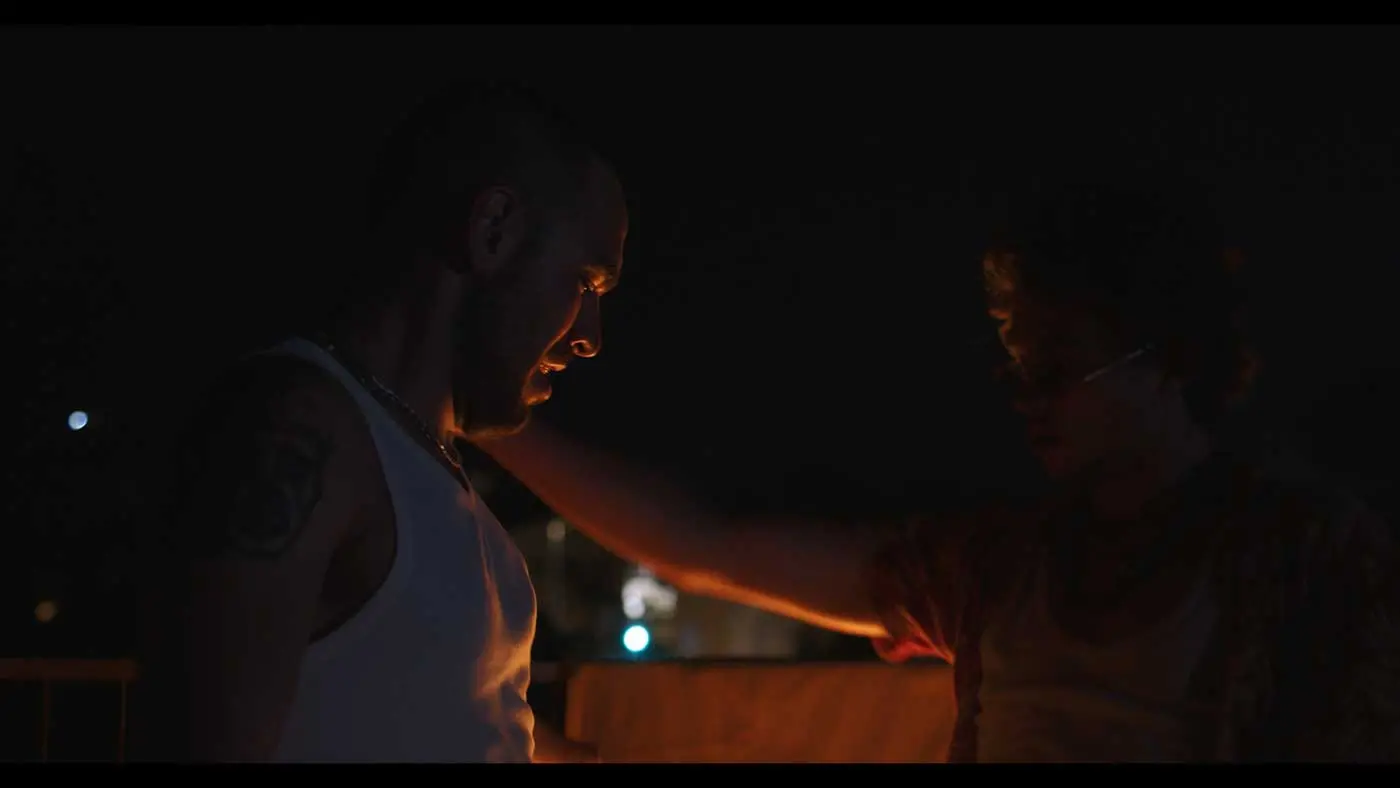
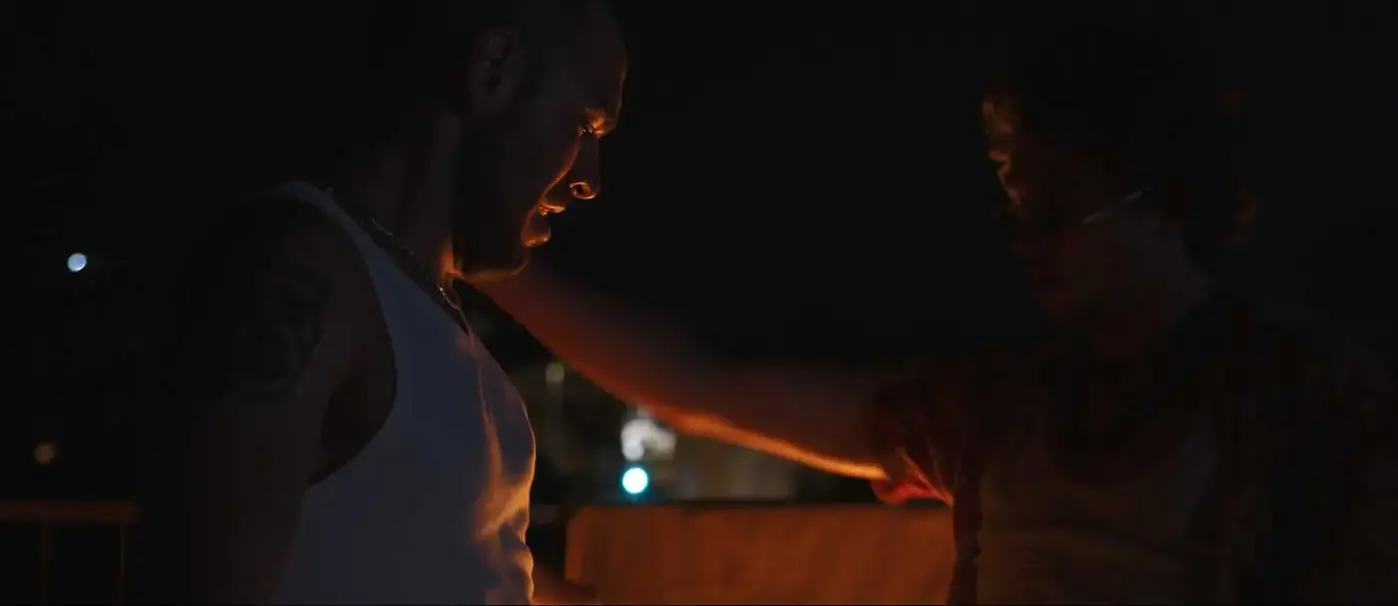
Sevenhalf Lab: layout fixes from screenshot review, README
Poster walls pick a column count that fills the last row, award and
selection counts both show on posters, letterbox bars trimmed from stills,
larger hero type on phones, stronger scrim behind reel type, README.

Claude-Session: https://claude.ai/code/session_01D5WjFenLFxo5JiD4AgkRhs

diff --git a/sevenhalflab/src/components/PosterWall.tsx b/sevenhalflab/src/components/PosterWall.tsx
@@ -22,9 +22,11 @@ function Poster({ film, priority }: { film: Film; priority?: boolean }) {
         )}
 
         {/* Proof sits on the poster, like a laurel printed on a one-sheet. */}
-        <span className="absolute top-3 left-3 rounded-sm bg-fondale/80 px-1.5 py-1 backdrop-blur-sm">
-          <LaurelCount awards={film.awards.length} selections={film.selections.length} />
-        </span>
+        {(film.awards.length > 0 || film.selections.length > 0) && (
+          <span className="absolute top-3 left-3 rounded-sm bg-fondale/80 px-1.5 py-1 backdrop-blur-sm">
+            <LaurelCount awards={film.awards.length} selections={film.selections.length} />
+          </span>
+        )}
 
         <span className="poster-caption absolute inset-0 flex flex-col justify-end p-4 sm:p-5">
           <span className="display text-[clamp(1.8rem,3vw,2.8rem)]">{film.title}</span>
@@ -40,9 +42,10 @@ function Poster({ film, priority }: { film: Film; priority?: boolean }) {
   );
 }
 
-export default function PosterWall({ films, eager = 0 }: { films: Film[]; eager?: number }) {
+// Pick the column count that fills the last row: 9 titles at 3, 8 or 4 at 4.
+export default function PosterWall({ films, eager = 0, cols = 3 }: { films: Film[]; eager?: number; cols?: 3 | 4 }) {
   return (
-    <ul className="grid grid-cols-2 gap-0.5 sm:grid-cols-3 lg:grid-cols-4">
+    <ul className={`grid grid-cols-2 gap-0.5 ${cols === 4 ? "md:grid-cols-4" : "md:grid-cols-3"}`}>
       {films.map((f, i) => (
         <Poster key={f.slug} film={f} priority={i < eager} />
       ))}

diff --git a/sevenhalflab/src/components/Laurel.tsx b/sevenhalflab/src/components/Laurel.tsx
@@ -17,16 +17,14 @@ export function LaurelIcon({ className = "" }: { className?: string }) {
   );
 }
 
-/** Proof for a poster corner: awards in orange, otherwise the selection count. */
+/** Proof for a poster corner: awards in orange, then the selection count. */
 export function LaurelCount({ awards, selections }: { awards: number; selections: number }) {
   if (!awards && !selections) return null;
-  const award = awards > 0;
   return (
-    <span
-      className={`condensed inline-flex items-center gap-1.5 text-[0.8rem] leading-none ${award ? "text-settemezzo" : "text-schermo"}`}
-    >
-      <LaurelIcon className="h-4 w-5" />
-      {award ? `${awards} ${awards === 1 ? "premio" : "premi"}` : `${selections} selezioni`}
+    <span className="condensed inline-flex items-center gap-1.5 text-[0.8rem] leading-none">
+      <LaurelIcon className={`h-4 w-5 ${awards ? "text-settemezzo" : "text-schermo"}`} />
+      {awards > 0 && <span className="text-settemezzo">{awards === 1 ? "1 premio" : `${awards} premi`}</span>}
+      {selections > 0 && <span>{selections === 1 ? "1 selezione" : `${selections} selezioni`}</span>}
     </span>
   );
 }

diff --git a/sevenhalflab/src/app/film/[slug]/page.tsx b/sevenhalflab/src/app/film/[slug]/page.tsx
@@ -113,9 +113,9 @@ export default async function FilmPage({ params }: PageProps<"/film/[slug]">) {
           <div className="md:sticky md:top-8">
             {film.poster ? (
               // eslint-disable-next-line @next/next/no-img-element
-              <img src={film.poster} alt={`Locandina di ${film.title}`} className="aspect-[2/3] w-full max-w-sm object-cover" />
+              <img src={film.poster} alt={`Locandina di ${film.title}`} className="aspect-[2/3] w-3/5 max-w-sm object-cover md:w-full" />
             ) : (
-              <div className="display display-md flex aspect-[2/3] max-w-sm items-end bg-fondale-2 p-5">{film.title}</div>
+              <div className="display display-md flex aspect-[2/3] w-3/5 max-w-sm items-end bg-fondale-2 p-5 md:w-full">{film.title}</div>
             )}
           </div>
         </div>

diff --git a/sevenhalflab/src/components/Reel.tsx b/sevenhalflab/src/components/Reel.tsx
@@ -63,6 +63,7 @@ export default function Reel({
         )}
         {/* Weight the bottom-left, where the type sits, so the frame stays legible. */}
         <div className="absolute inset-0 bg-[linear-gradient(to_top,rgb(13_34_48/0.92),rgb(13_34_48/0.25)_55%,rgb(13_34_48/0.45))]" />
+        <div className="absolute inset-0 bg-[linear-gradient(to_right,rgb(13_34_48/0.7),transparent_60%)]" />
       </div>
 
       <div className="wrap relative flex w-full flex-col justify-end pt-32 pb-24 sm:pb-20">{children}</div>

diff --git a/sevenhalflab/src/app/distribuzione-indipendente/page.tsx b/sevenhalflab/src/app/distribuzione-indipendente/page.tsx
@@ -47,7 +47,7 @@ export default function Distribuzione() {
             {selections} selezioni, <span className="text-settemezzo">{awards} premi</span>
           </p>
         </div>
-        <PosterWall films={distributed} />
+        <PosterWall films={distributed} cols={4} />
       </section>
 
       <Cta lines={["il futuro è un foglio bianco:", "scriviamolo insieme"]} />

diff --git a/sevenhalflab/src/app/globals.css b/sevenhalflab/src/app/globals.css
@@ -61,6 +61,15 @@ a {
 .display-lg {
   font-size: clamp(2.8rem, 9vw, 9.5rem);
 }
+/* Phones: condensed type can run much larger before it wraps. */
+@media (max-width: 640px) {
+  .display-xl {
+    font-size: 23vw;
+  }
+  .display-lg {
+    font-size: 15vw;
+  }
+}
 .display-md {
   font-size: clamp(2.2rem, 5.5vw, 5.5rem);
 }

diff --git a/sevenhalflab/src/app/cinema/page.tsx b/sevenhalflab/src/app/cinema/page.tsx
@@ -26,7 +26,7 @@ export default function Cinema() {
         <h2 id="prodotti" className="wrap mb-5 text-lg text-schermo/80">
           i nostri film
         </h2>
-        <PosterWall films={produced} />
+        <PosterWall films={produced} cols={4} />
       </section>
     </SectionPage>
   );

diff --git a/sevenhalflab/README.md b/sevenhalflab/README.md
@@ -1,0 +1,50 @@
+# Sevenhalf Lab
+
+Rebuild of sevenhalflab.com: an independent film production house in Naples.
+Next.js (App Router, static export), TypeScript, Tailwind CSS v4. Italian only, like the current site.
+
+```bash
+npm install
+npm run dev      # http://localhost:3000
+npm run build    # writes the whole site to /out (plain HTML/CSS/JS, any static host)
+npm run lint
+```
+
+## Where things live
+
+| What | File |
+| --- | --- |
+| Films: credits, synopsis, festivals, awards, poster, stills, trailer | `content/films.ts` |
+| Page copy, contacts, socials, galleries | `content/site.ts` |
+| Content types (what a film can have) | `content/types.ts` |
+| Design decisions and references | `DESIGN_NOTES.md` |
+| Colours and type | `src/app/globals.css` (`@theme`) and `src/app/layout.tsx` |
+| Images (all from the live site's `/wp-content/uploads/`) | `public/media/` |
+
+All copy is verbatim from the live site. Fields the site doesn't state are `null` with `// TODO: ask client`.
+Search for `TODO: ask client` to get the list of open questions. Lines rewritten for layout are marked `// new:`.
+
+### Adding a film
+
+Add an entry to `films` in `content/films.ts`, put the poster in `public/media/posters/` (2:3) and stills in
+`public/media/stills/`. It appears on the homepage wall, in its format page (`/corti/`, `/documentari/`, `/serie/`) and
+gets its own page at `/film/<slug>/`. To add a `lungometraggi` page, add it to `formats` in the same file.
+
+### Turning the reels into real loops
+
+`<Reel>` (`src/components/Reel.tsx`) plays a muted mp4 when given `video="/media/loops/<file>.mp4"`; until then it
+shows a real still with a slow drift. Keep clips 6–10 s, about 1920px wide, no audio track, under ~3 MB.
+
+## URLs
+
+The old WordPress URLs keep working: `/film/<slug>/`, `/cinema/`, `/subacquea/`, `/commercial/`,
+`/distribuzione-indipendente/`, `/chi-siamo/`, `/contatti/`. The old `/film-distribuzione/<slug>/` pages forward to
+`/film/<slug>/`, which now holds both production and distribution details. For proper 301s, add the same rules on the
+host as well.
+
+## Not migrated yet
+
+- Privacy and cookie policy text (generated by Complianz in WordPress).
+- The contact form. The page lists email and phone. Add a form endpoint if the client wants one.
+- No analytics, and nothing loads from third parties until a visitor presses play on a trailer, so no cookie banner is
+  needed as built.
